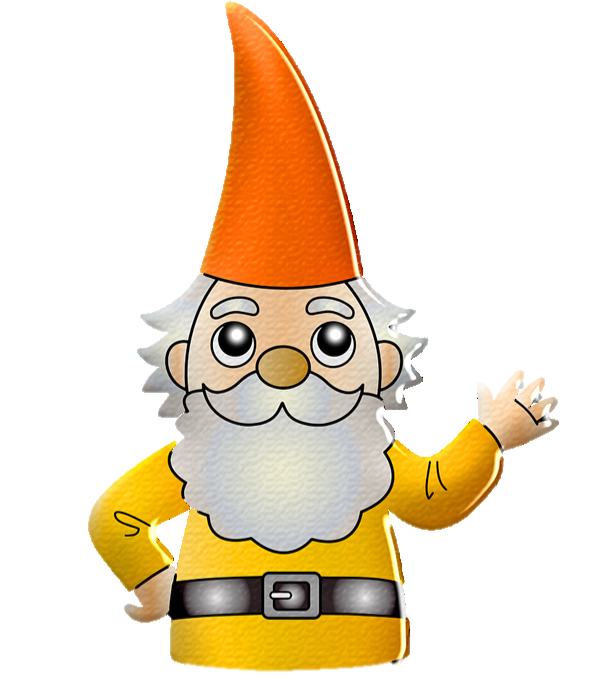
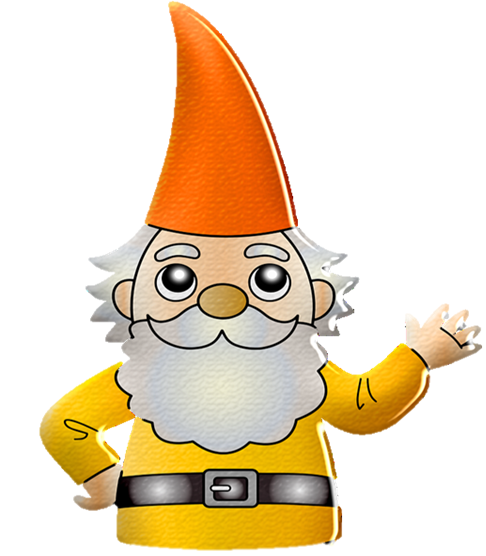
Add files via upload

Changed region(s): [[0.0617, 0.0, 0.9877, 1.0], [0.5864, 0.9784, 0.6481, 1.0]]

diff --git a/js/metronome.js b/js/metronome.js
@@ -1,6 +1,6 @@
 /* globals Mousetrap */
 /* exported Metronome */
-
+gnomeStatus = false;
 var Metronome = {
 	interval: null, // used to store the result of setInterval() while ticking
 
@@ -99,22 +99,28 @@ document.getElementById('start').className = 'rotatedRight';
 
 
 
-setTimeout(function(){ 
-
-document.getElementById("pseudo-body").style.display = "none";
-
-}, 500);
-
 
 		}
 	},
 
 	start: function () {
+console.log(gnomeStatus);
 
-document.getElementById("pseudo-body").style.display = "block";
+if (gnomeStatus === true) {
+gnomeStatus = false;
+window.clearInterval(Metronome.interval);
+		Metronome.interval = null;
+		Metronome.beat = 0;
+		document.getElementById('visual-target').innerHTML = '&nbsp;';
+		
+		document.getElementById('stop').style.display = 'none';
+document.getElementById('start').className = '';
+
+} else {
 
 
 
+gnomeStatus = true;
 
 		// ios does not play html5 audio on a page unless first triggered by a user interaction event like this
 		var osc = Metronome.context.createOscillator();
@@ -127,7 +133,7 @@ document.getElementById("pseudo-body").style.display = "block";
 		}
 		Metronome.interval = window.setInterval(Metronome.tick, (60 / Metronome.settings.tempo) * 1000);
 		
-
+}
 
 		
 
@@ -283,6 +289,8 @@ document.getElementById('start').className = '';
 		}
 	},
 
+
+
 	bindControls: function () {
 		var eachRecursive = function (obj, callback) {
 			for (var k in obj) {
@@ -370,8 +378,13 @@ document.getElementById('start').className = '';
 			Metronome.multiplyTime(3);
 		});
 
+
+
 		// start/stop
 		document.getElementById('start').onclick = Metronome.start;
+
+
+
 		document.getElementById('stop').onclick = Metronome.stop;
 
 		// tempo manipulation

diff --git a/index.html b/index.html
@@ -13,13 +13,13 @@
 	</head>
 	<body>
 
-<div id="pseudo-body" style="text-align: center; font-size: 50px;"><div class="child"><span>Metro</span><span style="color: saddlebrown;">Gnome</span></div></div>
 
-<div style="width: 100vw; text-align: center; position: fixed; bottom: 200px; z-index: 2;"><img id="start" tabindex="3" style="height: 90vh; z-index: 2;" src="gnome.png"></img>
+
+<div style="width: 100vw; text-align: center; position: fixed; bottom: 200px; z-index: 2;"><img id="start" tabindex="3" style="width: auto; max-width: 100%; z-index: 2;" src="gnome.png"></img>
 
 </div>
 <div style="width: 100vw; text-align: center; position: fixed; bottom: 55px; left: 3px;">
-<img style="height: 30vh;" src="gnomeFeet.png"></img></div>
+<img style="height: 24vh;" src="gnomeFeet.png"></img></div>
 <div id="metronome">
 			<div id="tempo-helpers">
 				<button id="third">÷3</button>

diff --git a/css/metronome.css b/css/metronome.css
@@ -29,29 +29,6 @@ body::before {
     background-color: rgba(38, 166, 91, 0.63);
 }
 
-#pseudo-body {
-display: none;
-z-index:3;
-  content: "";
-    position: absolute;
-    top: 0px;
-    right: 0px;
-    bottom: 0px;
-    left: 0px;
-    background-color: rgba(38, 166, 91, 1);
-}
-
-.child {
-  width: 300px;
-  height: 100px;
-  padding: 20px;
-
-  position: absolute;
-  top: 50%;
-  left: 50%;
-
-  margin: -70px 0 0 -170px;
-}
 
 input {
 	text-align: center;
